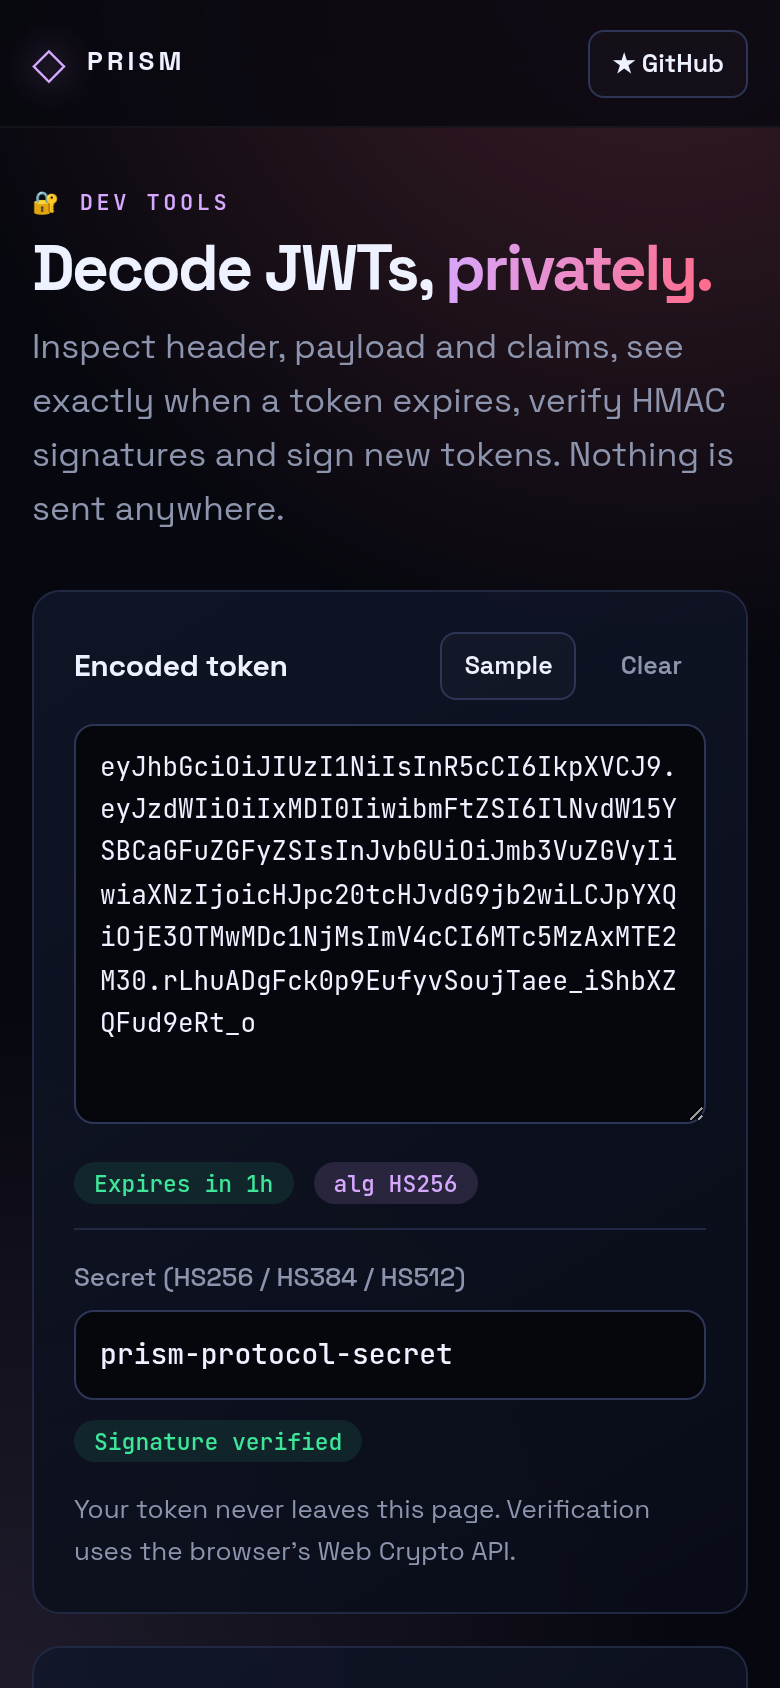
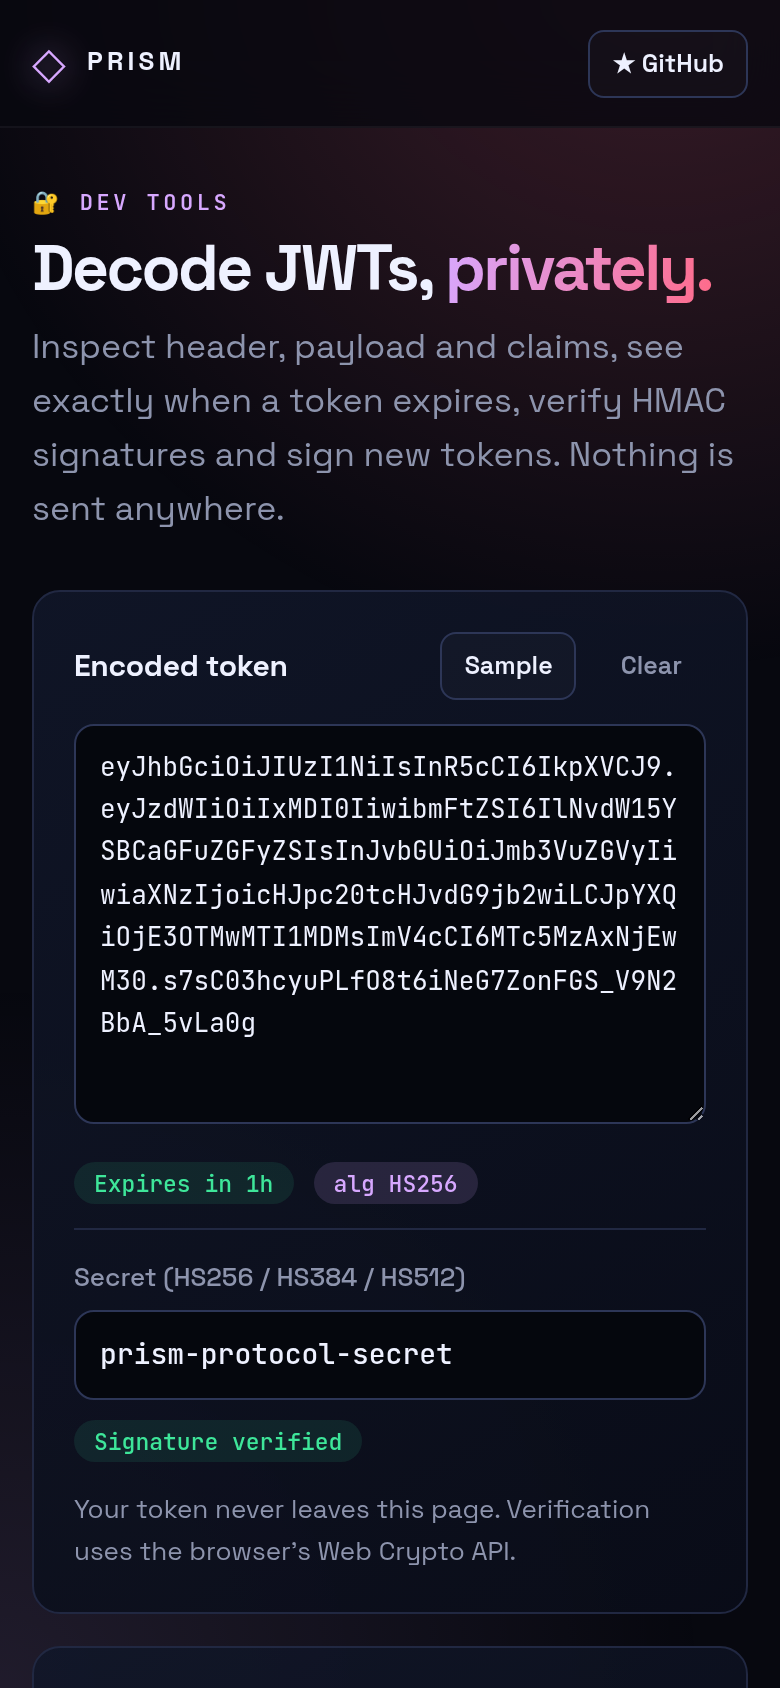
chore: update

Changed region(s): [[0.1231, 0.5237, 0.5846, 0.6161], [0.7077, 0.5545, 0.8615, 0.5853], [0.6154, 0.5545, 0.6462, 0.5853]]

diff --git a/css/prism.css b/css/prism.css
@@ -55,3 +55,6 @@ mark{background:color-mix(in srgb,var(--accent) 30%,transparent);color:var(--tex
 .foot a{color:var(--muted);text-decoration:none}.foot a:hover{color:var(--text)}
 @media (max-width:860px){.g2,.g3,.g4{grid-template-columns:1fr}.brand span:not(.mark){display:none}.hero{padding-top:30px}}
 @media (prefers-reduced-motion:reduce){*{transition:none!important;animation:none!important}}
+.pill:empty{display:none}
+.grid>*{min-width:0}
+[hidden]{display:none!important}

diff --git a/README.md b/README.md
@@ -19,7 +19,7 @@
   <img src="assets/screenshots/desktop.png" width="90%" alt="Prism JWT Inspector screenshot" />
 </p>
 
-<img src="https://raw.githubusercontent.com/andreasbm/readme/master/assets/lines/aqua.png" width="100%" />
+<img src="https://raw.githubusercontent.com/andreasbm/readme/master/assets/lines/aqua.png" width="100%" alt="" />
 
 ## ⚡ Overview
 
@@ -67,7 +67,7 @@ npx serve .
 
 ## 📁 Project Structure
 
-```
+```text
 prism-jwt-inspector/
 ├── assets/
 │   ├── logo.png
@@ -111,13 +111,13 @@ Prism JWT Inspector is one of the open-source tools built by [Prism Protocol](ht
 <table>
   <tr>
     <td align="center">
-      <a href="https://github.com/krishyaa06"><img src="https://github.com/krishyaa06.png" width="90" style="border-radius:50%" /><br><b>Soumya Bhandare</b></a><br>
+      <a href="https://github.com/krishyaa06"><img src="https://github.com/krishyaa06.png" width="90" style="border-radius:50%" alt="Soumya Bhandare" /><br><b>Soumya Bhandare</b></a><br>
       <sub>Founder @ Prism Protocol</sub>
     </td>
     <td>
-      <a href="https://dc.gg/prismprotocol"><img src="https://img.shields.io/badge/Discord-Prism%20Protocol-5865F2?style=for-the-badge&logo=discord&logoColor=white" /></a><br>
-      <a href="https://instagram.com/prism_protocol_"><img src="https://img.shields.io/badge/Instagram-@prism__protocol__-E4405F?style=for-the-badge&logo=instagram&logoColor=white" /></a><br>
-      <a href="https://x.com/krishyaa06"><img src="https://img.shields.io/badge/X-@krishyaa06-000000?style=for-the-badge&logo=x&logoColor=white" /></a>
+      <a href="https://dc.gg/prismprotocol"><img src="https://img.shields.io/badge/Discord-Prism%20Protocol-5865F2?style=for-the-badge&logo=discord&logoColor=white" alt="Discord" /></a><br>
+      <a href="https://instagram.com/prism_protocol_"><img src="https://img.shields.io/badge/Instagram-@prism__protocol__-E4405F?style=for-the-badge&logo=instagram&logoColor=white" alt="Instagram" /></a><br>
+      <a href="https://x.com/krishyaa06"><img src="https://img.shields.io/badge/X-@krishyaa06-000000?style=for-the-badge&logo=x&logoColor=white" alt="X" /></a>
     </td>
   </tr>
 </table>
@@ -131,4 +131,4 @@ Released under the [MIT License](LICENSE).
   <sub>"Build. Create. Compete." · Made with ⚡ by Prism Protocol</sub>
 </p>
 
-<img src="https://capsule-render.vercel.app/api?type=waving&color=0:FF6B8A,50:D7A8FF,100:07060f&height=110&section=footer" width="100%" />
+<img src="https://capsule-render.vercel.app/api?type=waving&color=0:FF6B8A,50:D7A8FF,100:07060f&height=110&section=footer" width="100%" alt="" />
